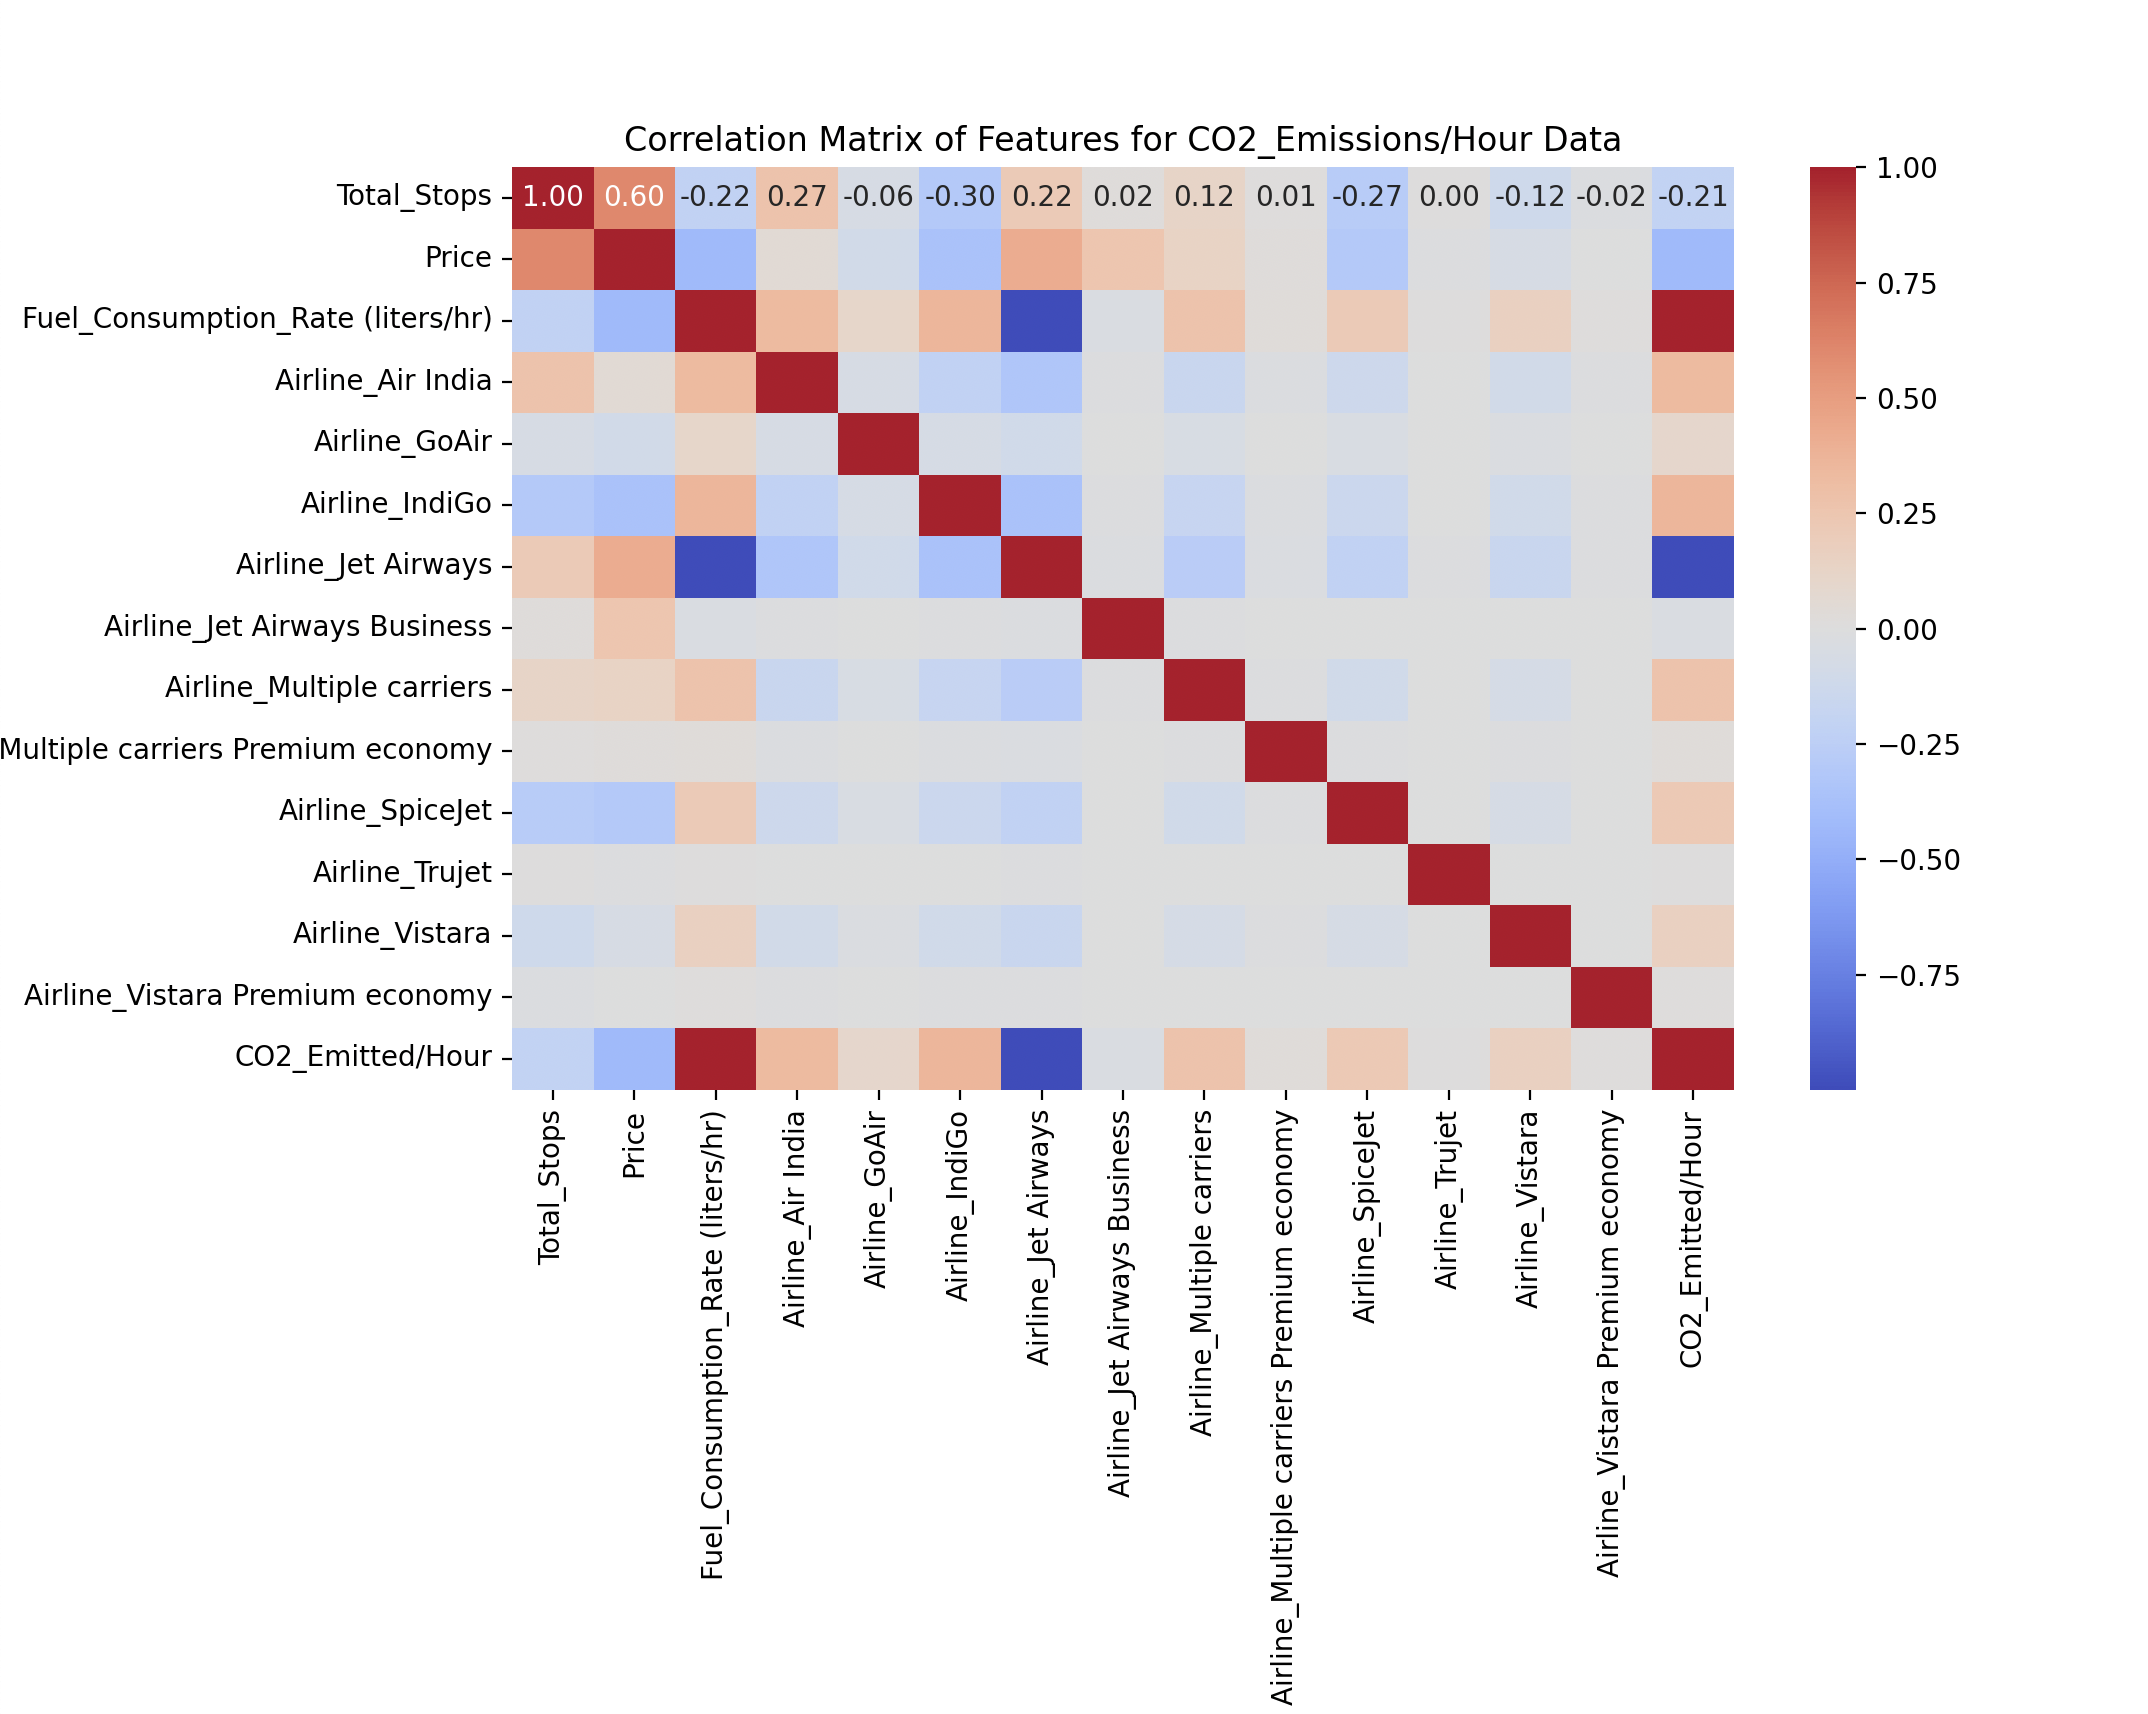
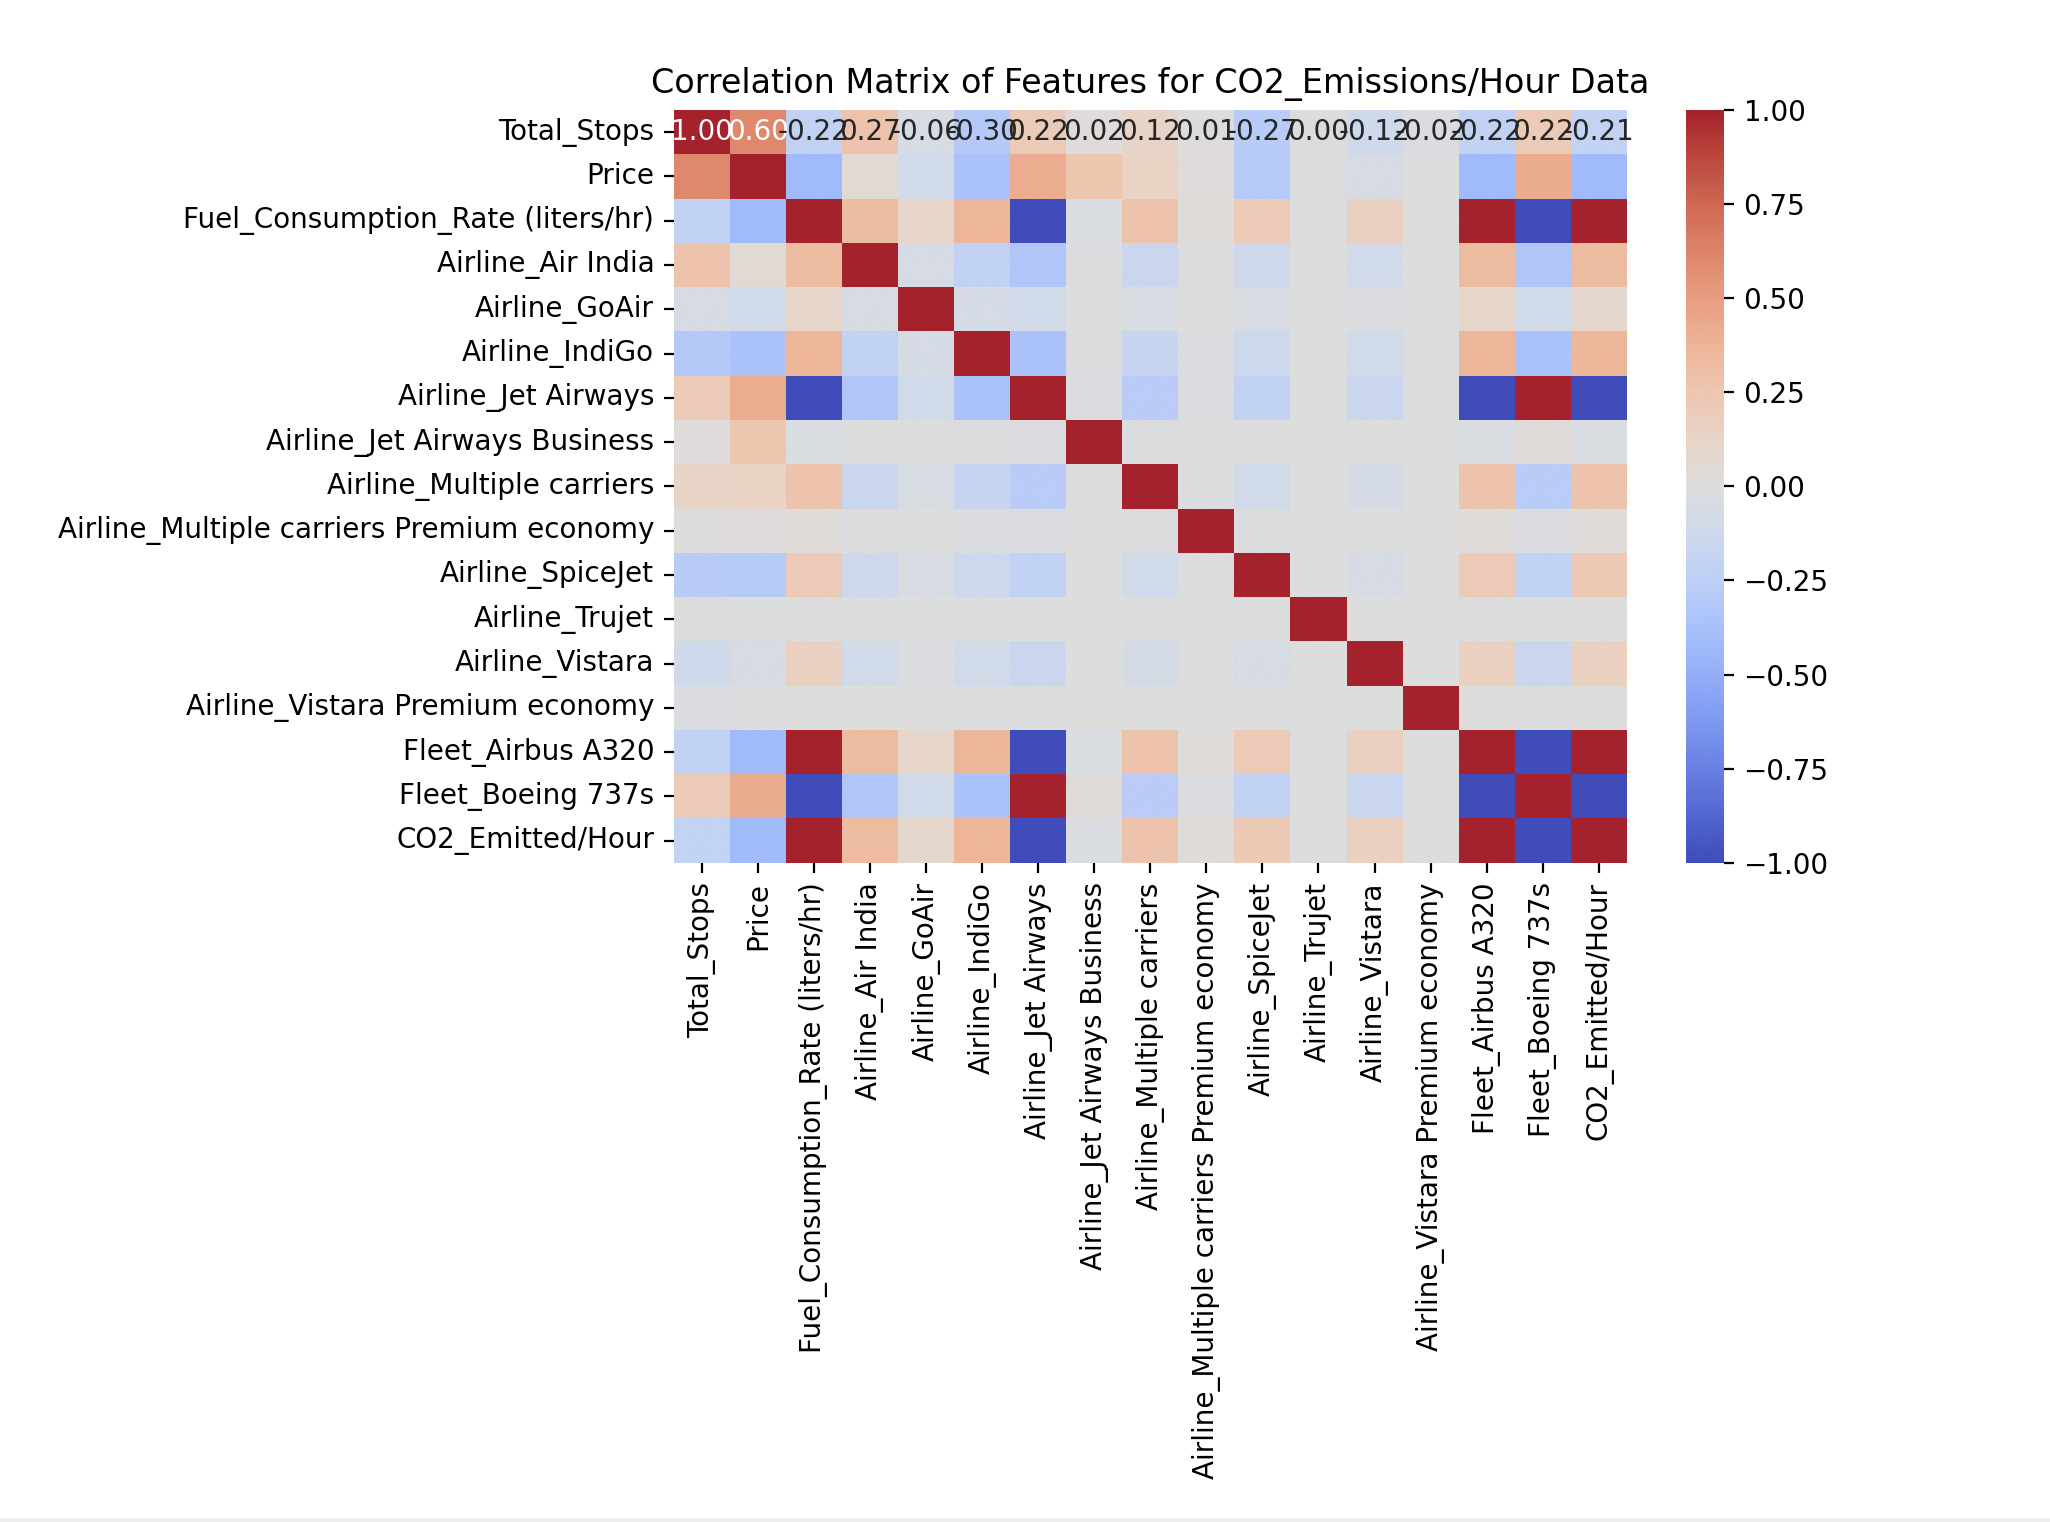
updated images

Changed region(s): [[0.0, 0.0309, 0.9054, 0.9882], [0.6868, 0.8338, 0.718, 0.8955]]

diff --git a/code/python_code.py b/code/python_code.py
@@ -335,7 +335,7 @@ plt.show()
 
 #correlation matrix for variables to get a visual on correlation among variables before applying decision trees
 #corr_matrix = X_for_corrplot2.corr()
-corr_matrix2 = df_modified2.drop(columns=['Fleet_Airbus A320', 'Fleet_Boeing 737s', 'Frequent_Route'])
+corr_matrix2 = df_modified2.drop(columns=['Frequent_Route'])
 
 corr_matrix2 = corr_matrix2.corr()
 
@@ -498,7 +498,7 @@ plt.title("Feature Importances from Random Forest for Dataset with CO2_Emitted/F
 plt.show()
 
 #correlation matrix
-corr_matrix3 = df_modified3.drop(columns=['Fleet_Airbus A320', 'Fleet_Boeing 737s', 'Frequent_Route'])
+corr_matrix3 = df_modified3.drop(columns=['Frequent_Route'])
 corr_matrix3 = corr_matrix3.corr()
 # Plot the heatmap
 plt.figure(figsize=(12, 8))
